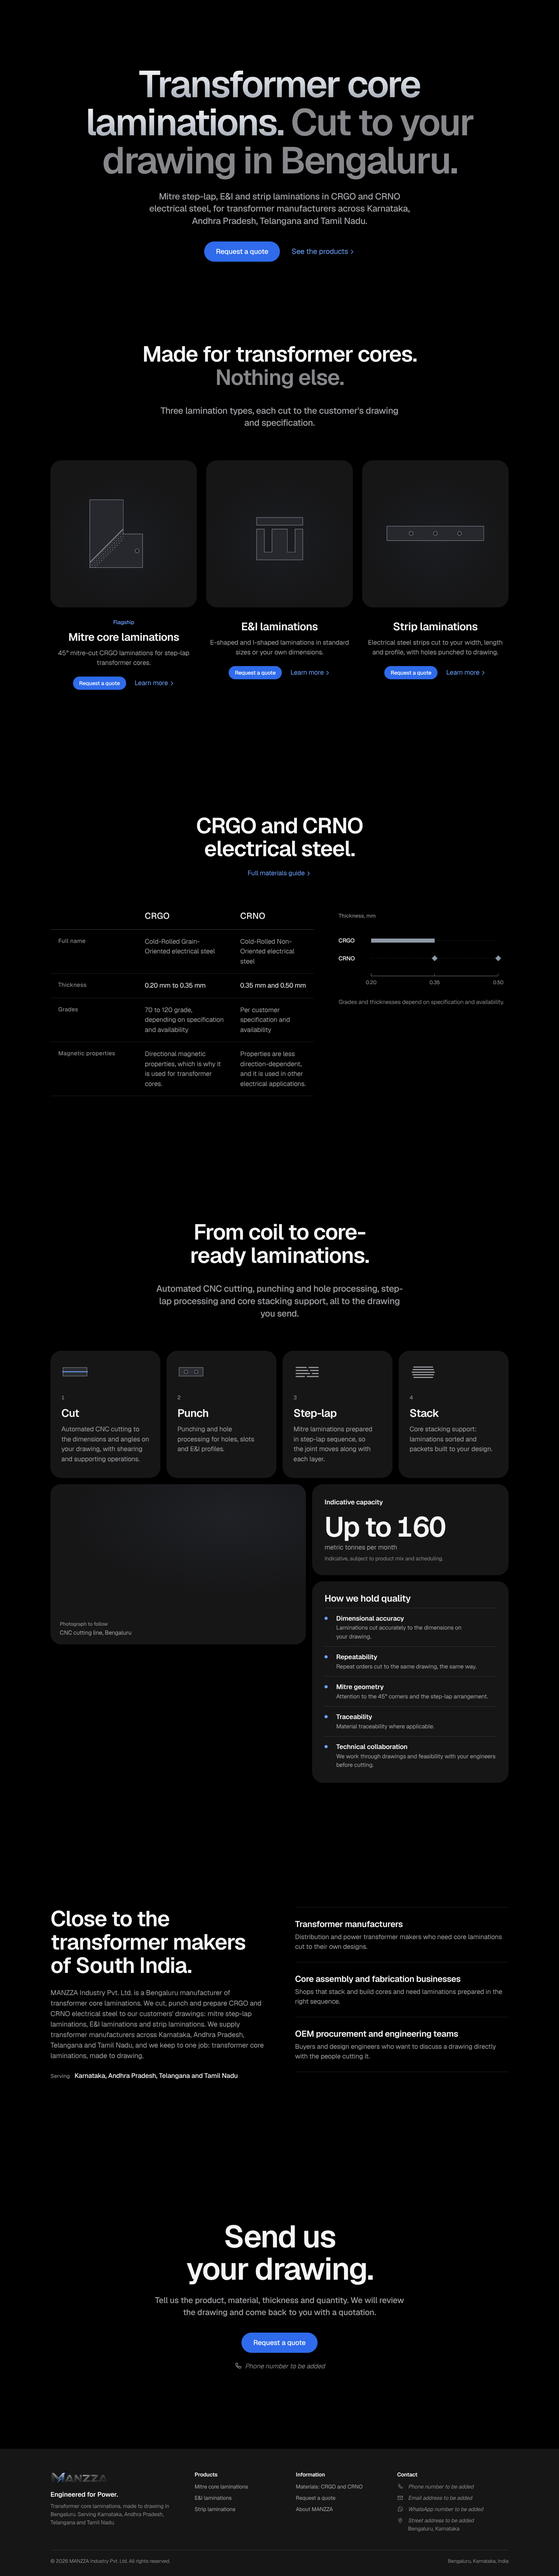
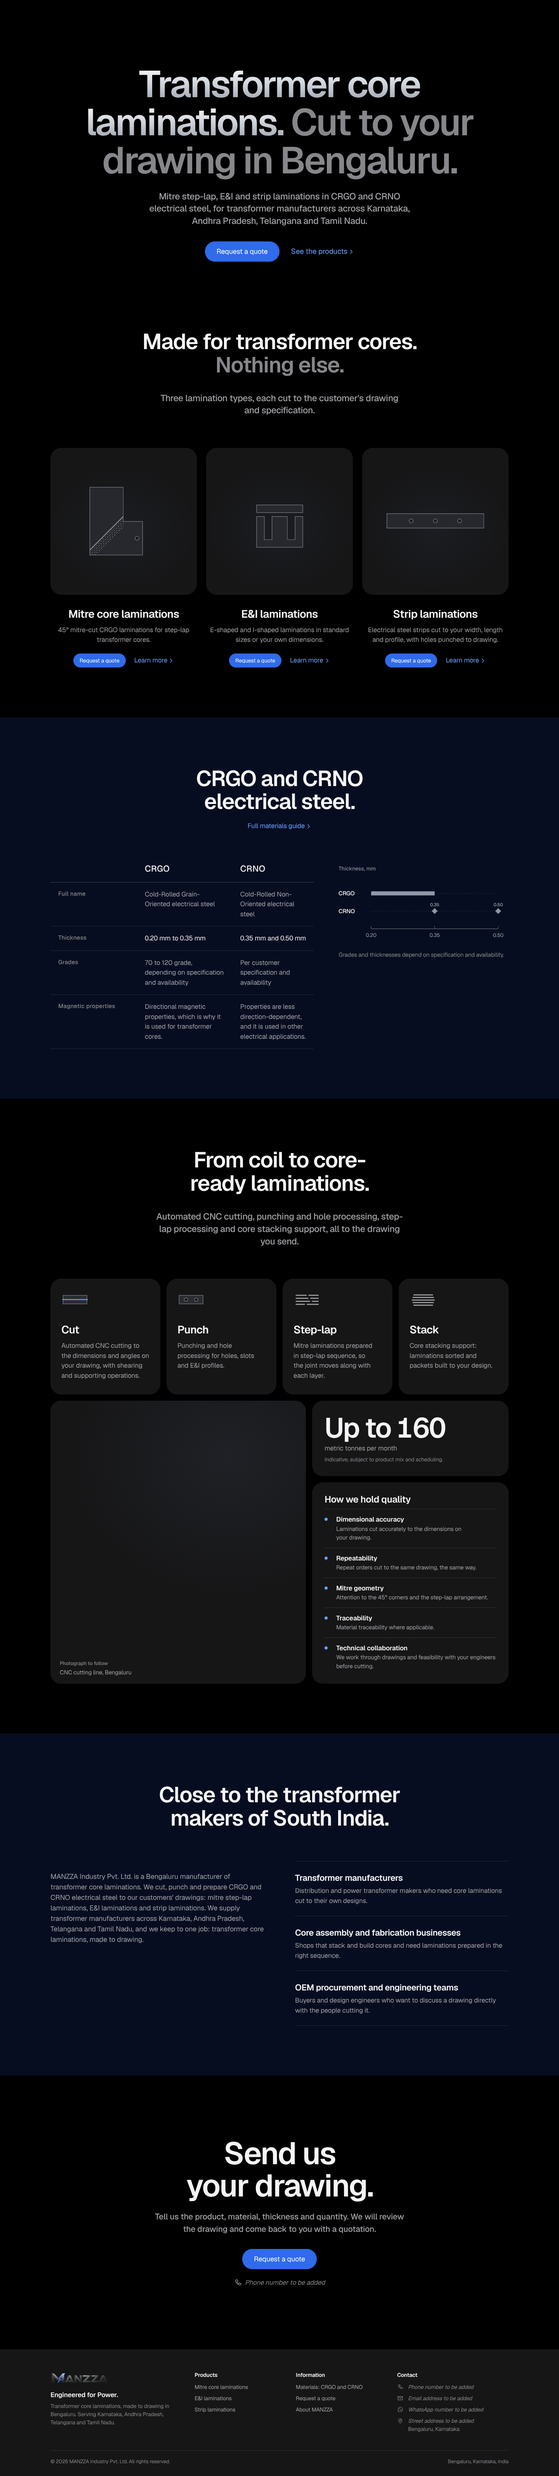
Finish-review fixes: navy chapters, tighter rhythm, no labels over figures or steps
- Alternate chapters (materials, about) on deep navy from the brand navy
- Section rhythm clamp(72px, 9vw, 128px); shorter close
- Capacity figure leads without a label; process steps without numerals
- Photo tile fills its column (no hole under it)
- Pill labels in regular weight; small pill keeps a 44px hit area
- About heading centred like every other chapter; Serving line removed
- CRNO gauges labelled on the thickness scale; Flagship label removed
- DESIGN.md updated to match the build

Claude-Session: https://claude.ai/code/session_01214982rDZULgeJFmDyr7gx

diff --git a/src/styles/main.css b/src/styles/main.css
@@ -21,7 +21,7 @@
 
   /* surfaces: black page, graphite tiles */
   --bg: #000000;
-  --bg-alt: #000000;
+  --bg-alt: #070d20; /* deep navy, from the brand navy: alternate chapters */
   --surface: #161617; /* tiles */
   --surface-2: #232325; /* fields, hover */
   --stage: #000000; /* the intro studio (matches STUDIO in intro/scene.js) */
@@ -47,7 +47,7 @@
   --gutter: 20px;
   --maxw: 1180px;
   --header-h: 52px;
-  --section-y: clamp(88px, 12vw, 160px);
+  --section-y: clamp(72px, 9vw, 128px);
 
   /* motion: strong curves (the built-in keywords are too weak to feel deliberate) */
   --ease-out: cubic-bezier(0.23, 1, 0.32, 1);
@@ -139,7 +139,7 @@ html.menu-open { overflow: hidden; }
 .btn {
   position: relative; display: inline-flex; align-items: center; justify-content: center; gap: 8px;
   min-height: 44px; padding: 0 22px; border: 0; border-radius: var(--r-pill);
-  font-family: var(--f-body); font-size: 1.0625rem; font-weight: 500; line-height: 1; letter-spacing: -0.011em;
+  font-family: var(--f-body); font-size: 1.0625rem; font-weight: 400; line-height: 1; letter-spacing: -0.011em;
   text-decoration: none; white-space: nowrap; cursor: pointer; color: #fff;
   transition: background-color 0.2s, color 0.2s, box-shadow 0.2s, transform 0.16s var(--ease-out);
 }
@@ -153,7 +153,8 @@ html.menu-open { overflow: hidden; }
 .btn--ghost { background: transparent; color: var(--blue-hi); box-shadow: inset 0 0 0 1px var(--blue-hi); }
 @media (hover: hover) and (pointer: fine) { .btn--ghost:hover { background: var(--blue-hi); color: #000; } }
 .btn--ghost:focus-visible { box-shadow: inset 0 0 0 1px var(--blue-hi), 0 0 0 4px rgba(110, 162, 255, 0.55); }
-.btn--sm { min-height: 34px; padding: 0 16px; font-size: 0.875rem; }
+.btn--sm { min-height: 36px; padding: 0 16px; font-size: 0.875rem; }
+.btn--sm::before { content: ''; position: absolute; inset: -4px -2px; } /* a 44px target around a 36px pill */
 .btn--lg { min-height: 52px; padding: 0 30px; font-size: 1.125rem; }
 .btn--block { width: 100%; }
 .btn--wa { background: var(--surface-2); color: var(--text); }
@@ -340,7 +341,8 @@ html.menu-open { overflow: hidden; }
 .ts-pt { fill: var(--steel); }
 .ts-axis, .ts-tick { stroke: var(--text-3); stroke-width: 1; }
 .ts-val { fill: var(--text-2); font: 400 15px var(--f-mono); }
-@media (max-width: 720px) { .ts-name { font-size: 22px; } .ts-val { font-size: 20px; } }
+.ts-ptval { fill: var(--text-2); font: 500 13px var(--f-mono); }
+@media (max-width: 720px) { .ts-name { font-size: 22px; } .ts-val { font-size: 20px; } .ts-ptval { font-size: 18px; } }
 
 /* home materials block */
 .mat-home { display: grid; gap: 48px; }
@@ -365,13 +367,16 @@ html.menu-open { overflow: hidden; }
 .step__text { color: var(--text-2); }
 
 .process-foot { display: grid; gap: 16px; margin-top: 16px; }
-@media (min-width: 1000px) { .process-foot { grid-template-columns: 1.3fr 1fr; } }
+@media (min-width: 1000px) {
+  .process-foot { grid-template-columns: 1.3fr 1fr; align-items: stretch; }
+  .process-foot > .photo { aspect-ratio: auto !important; height: 100%; min-height: 360px; }
+}
 .process-foot__side { display: grid; gap: 16px; align-content: start; }
 
 /* a single figure, Apple-size, with its unit and the honest note beneath */
 .capacity { padding: 34px 32px 32px; }
 .capacity__label { font-size: 1.0625rem; font-weight: 600; color: var(--text); }
-.capacity__value { margin: 14px 0 10px; color: var(--text); line-height: 1; }
+.capacity__value { margin: 0 0 10px; color: var(--text); line-height: 1; }
 .capacity__value .num { font-size: clamp(3rem, 6vw, 4.5rem); font-weight: 600; letter-spacing: -0.04em; }
 .capacity__unit { display: block; margin-top: 8px; font-size: 1.0625rem; color: var(--text-2); }
 .capacity__note { font-size: 0.875rem; color: var(--text-3); }
@@ -403,7 +408,7 @@ html.menu-open { overflow: hidden; }
 
 /* -------------------------------------------------------------- CTA */
 /* the close: centred, quiet, one action in blue */
-.cta { position: relative; background: #000; padding: clamp(110px, 14vw, 200px) 0; text-align: center; }
+.cta { position: relative; background: #000; padding: clamp(96px, 11vw, 160px) 0; text-align: center; }
 .cta__inner { display: grid; justify-items: center; gap: 36px; }
 .cta__copy { display: grid; justify-items: center; }
 .cta__h { font-size: clamp(2.6rem, 6.4vw, 5rem); font-weight: 600; line-height: 1.04; letter-spacing: -0.035em; max-width: 14ch; }

diff --git a/src/build/render.js b/src/build/render.js
@@ -352,7 +352,6 @@ function productCards(d) {
     <article class="pcard${p.flagship ? ' pcard--flagship' : ''}">
       <a class="pcard__media" href="/products/${p.slug}" tabindex="-1" aria-hidden="true">${mini(p.cardVisual, 'pcard__visual')}</a>
       <div class="pcard__body">
-        ${p.flagship ? '<p class="pcard__flag">Flagship</p>' : ''}
         <h3 class="pcard__title"><a href="/products/${p.slug}">${esc(p.name)}</a></h3>
         <p class="pcard__line">${esc(p.cardLine)}</p>
         <div class="pcard__actions">
@@ -381,7 +380,7 @@ function thicknessScale(d) {
     const s = m.thicknessScale || {};
     let mark = '';
     if (s.from != null) mark += `<rect x="${x(s.from)}" y="${y - 6}" width="${x(s.to) - x(s.from)}" height="12" class="ts-bar"/>`;
-    (s.points || []).forEach((v) => { mark += `<rect x="${x(v) - 6}" y="${y - 6}" width="12" height="12" class="ts-pt" transform="rotate(45 ${x(v)} ${y})"/>`; });
+    (s.points || []).forEach((v) => { mark += `<rect x="${x(v) - 6}" y="${y - 6}" width="12" height="12" class="ts-pt" transform="rotate(45 ${x(v)} ${y})"/><text x="${x(v)}" y="${y - 14}" class="ts-ptval" text-anchor="middle">${v.toFixed(2)}</text>`; });
     return `<text x="0" y="${y + 6}" class="ts-name">${esc(m.code)}</text><line x1="${X0}" y1="${y}" x2="${X1}" y2="${y}" class="ts-track"/>${mark}`;
   }).join('');
   const axisY = 40 + d.materials.length * 52;
@@ -424,7 +423,6 @@ const STEP_ICONS = {
 function process(d) {
   const steps = d.company.process.map((s, i) => `<li class="step">
       <div class="step__icon">${STEP_ICONS[s.step] || ''}</div>
-      <p class="step__n">${i + 1}</p>
       <h3 class="step__title">${esc(s.step)}</h3>
       <p class="step__text">${esc(s.text)}</p>
     </li>`).join('');
@@ -435,7 +433,6 @@ function capacity(d) {
   const c = d.config.capacity;
   if (!c || !c.show) return '';
   return `<div class="capacity">
-    <p class="capacity__label">Indicative capacity</p>
     <p class="capacity__value"><span class="num">${esc(c.value)}</span> <span class="capacity__unit">${esc(c.unit)}</span></p>
     <p class="capacity__note">${esc(c.note)}</p>
   </div>`;

diff --git a/index.html b/index.html
@@ -67,11 +67,12 @@
 
     <section id="about" class="section section--navy" aria-labelledby="who-h">
       <div class="container">
+        <div class="section__head section__head--row">
+          <h2 id="who-h" class="h2">Close to the transformer makers of South India.</h2>
+        </div>
         <div class="about">
           <div class="about__copy">
-            <h2 id="who-h" class="h2">Close to the transformer makers of South India.</h2>
             {{> about}}
-            <p class="regions"><span class="label-sm">Serving</span> {{> regions}}</p>
           </div>
           {{> customers}}
         </div>

diff --git a/DESIGN.md b/DESIGN.md
@@ -3,6 +3,7 @@ name: MANZZA
 description: Transformer core laminations, presented with Apple's product-page grammar on black.
 colors:
   bg: "#000000"
+  bg-alt: "#070d20"
   surface: "#161617"
   surface-2: "#232325"
   text: "#f5f5f7"
@@ -67,7 +68,7 @@ components:
     height: "52px"
     padding: "0 30px"
   button-primary-sm:
-    height: "34px"
+    height: "36px"
     padding: "0 16px"
   button-secondary:
     backgroundColor: "transparent"
@@ -93,7 +94,7 @@ reserved for the things a visitor can act on. Sections open with a centred headl
 The home page begins with a WebGL scroll film; everything after it is calm by design.
 
 ## Colors
-Black page, graphite `surface` tiles, `surface-2` for fields and hover. Text steps from
+Black page with deep-navy `bg-alt` alternate chapters (materials, about), graphite `surface` tiles, `surface-2` for fields and hover. Text steps from
 `text` (headlines) to `text-2` (body) to `text-3` (notes, secondary headline halves).
 Electric blue `blue` fills the primary pill only; `blue-link` (lifted for contrast on
 black) colours chevron links, the secondary pill and small accents. No other hues.
@@ -105,7 +106,7 @@ Headlines are semibold with tight negative tracking; a two-tone headline sets it
 sentence in `text-3`. `text-wrap: balance` on headings, `pretty` on paragraphs.
 
 ## Layout
-Max content width 1180px. Section rhythm `section-y` top and bottom. Section heads are
+Max content width 1180px. Section rhythm `section-y` (clamp 72–128px) top and bottom. Section heads are
 centred; content below may be left-aligned when it is a table or prose. The product
 lineup is three equal columns of centred picture, name, line and actions.
 
@@ -118,7 +119,7 @@ Pills for buttons, 28px tiles (22px on phones), 18px small cards, 12px fields, r
 radio marks and status dots. No cut corners, no outlines around tiles.
 
 ## Components
-- Primary button: blue pill, white sentence-case label, 44px minimum target; hover
+- Primary button: blue pill, white sentence-case label in regular weight, 44px minimum target (the 36px small pill gets an invisible 44px hit area); hover
   lightens, press darkens and scales to 0.97; focus is a 4px blue ring.
 - Secondary button: outlined blue pill that fills on hover.
 - Chevron link: blue text with a drawn chevron that nudges 2px on hover; underline on hover.
